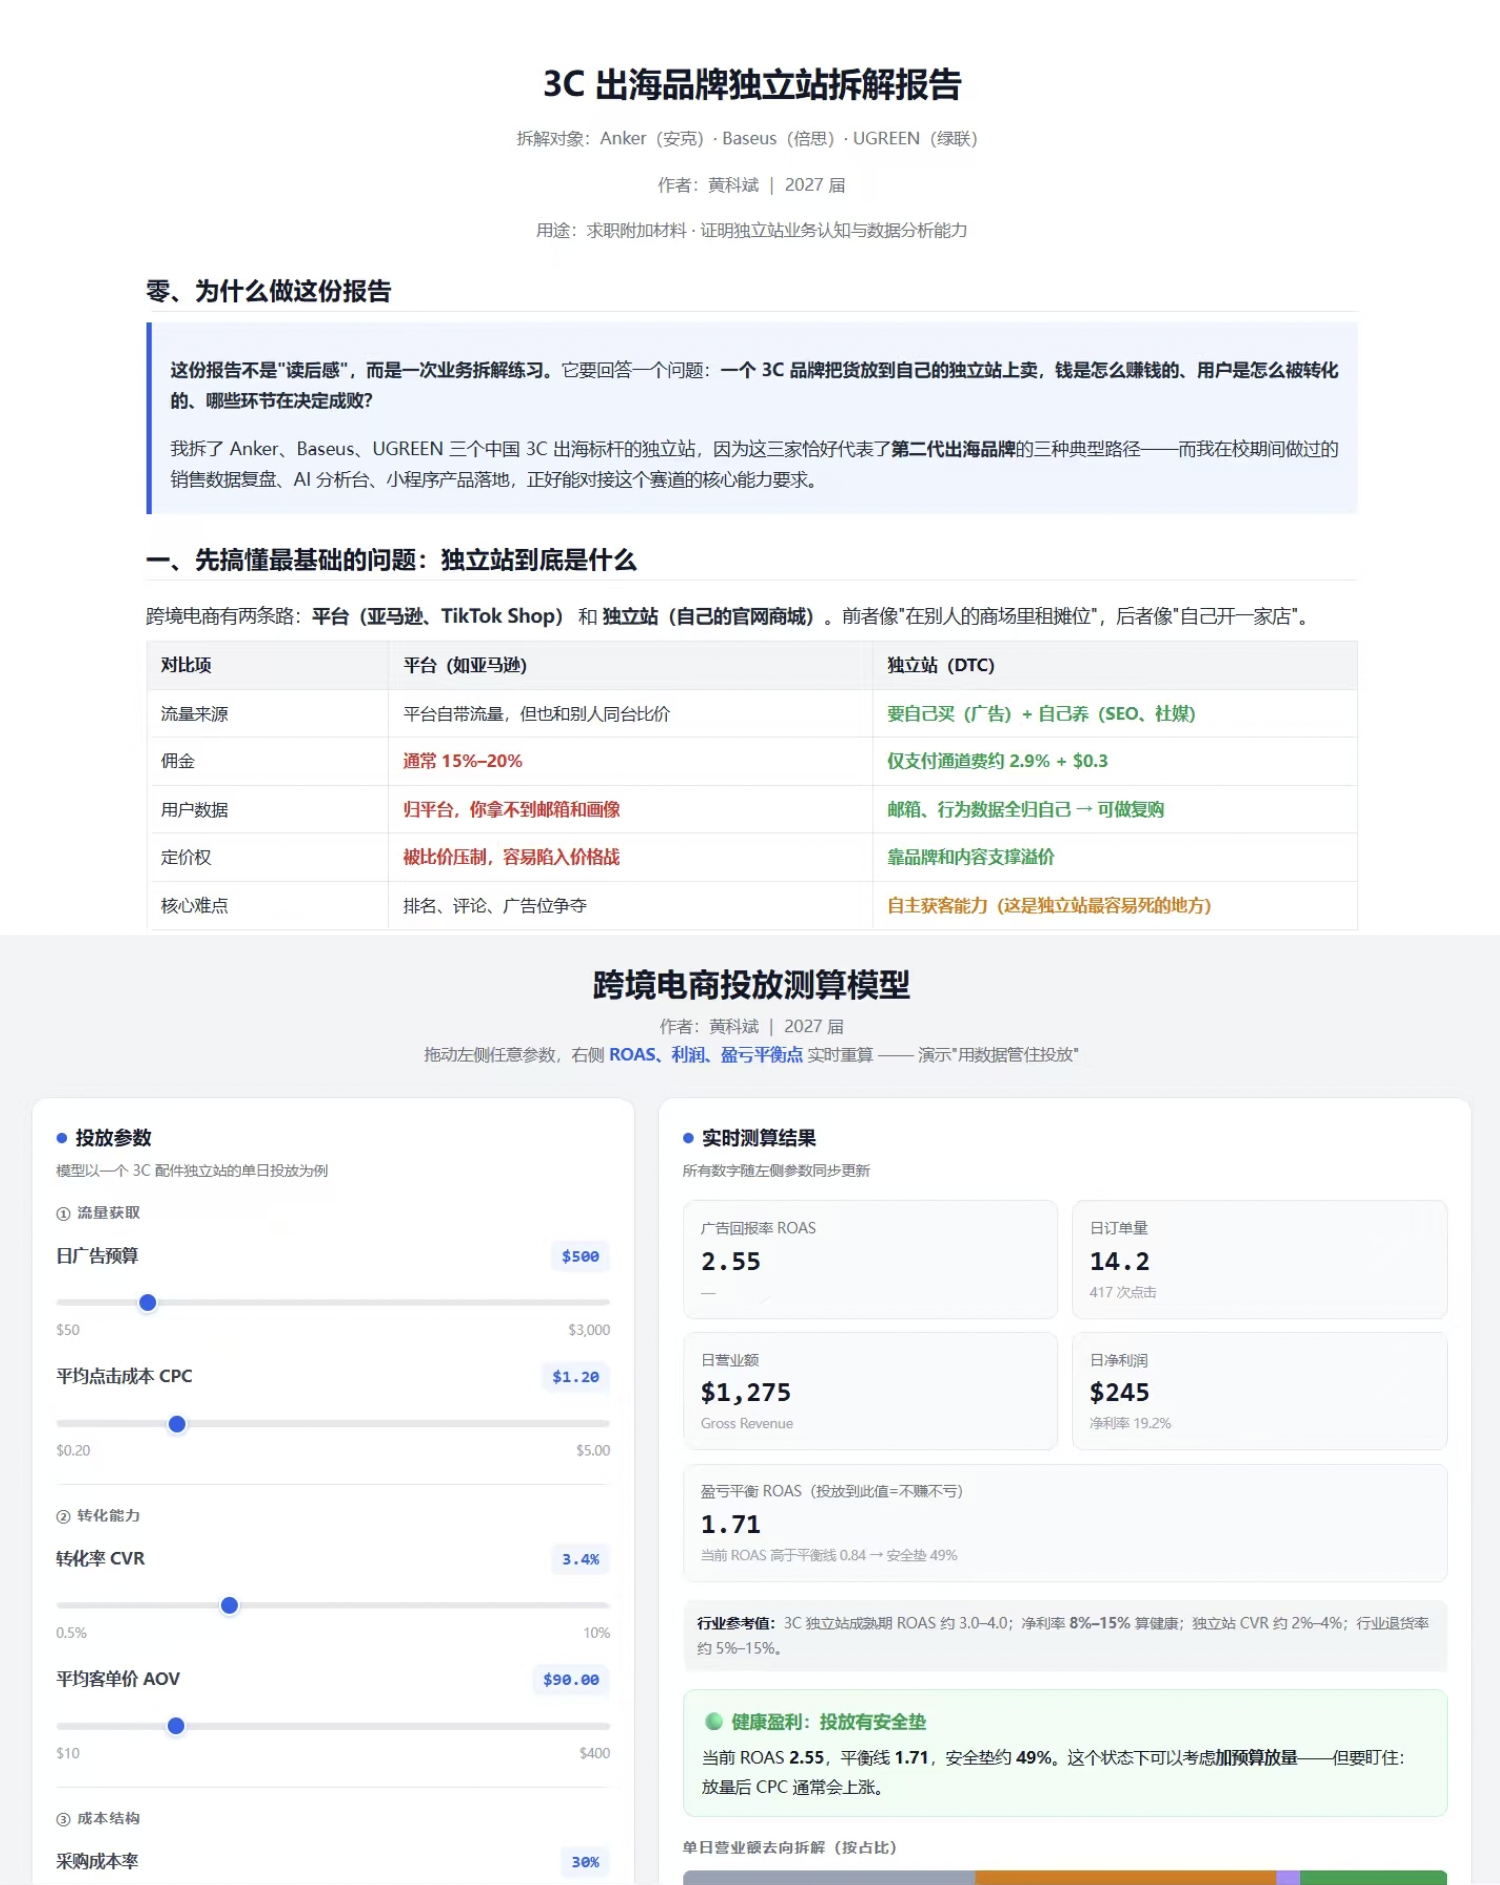
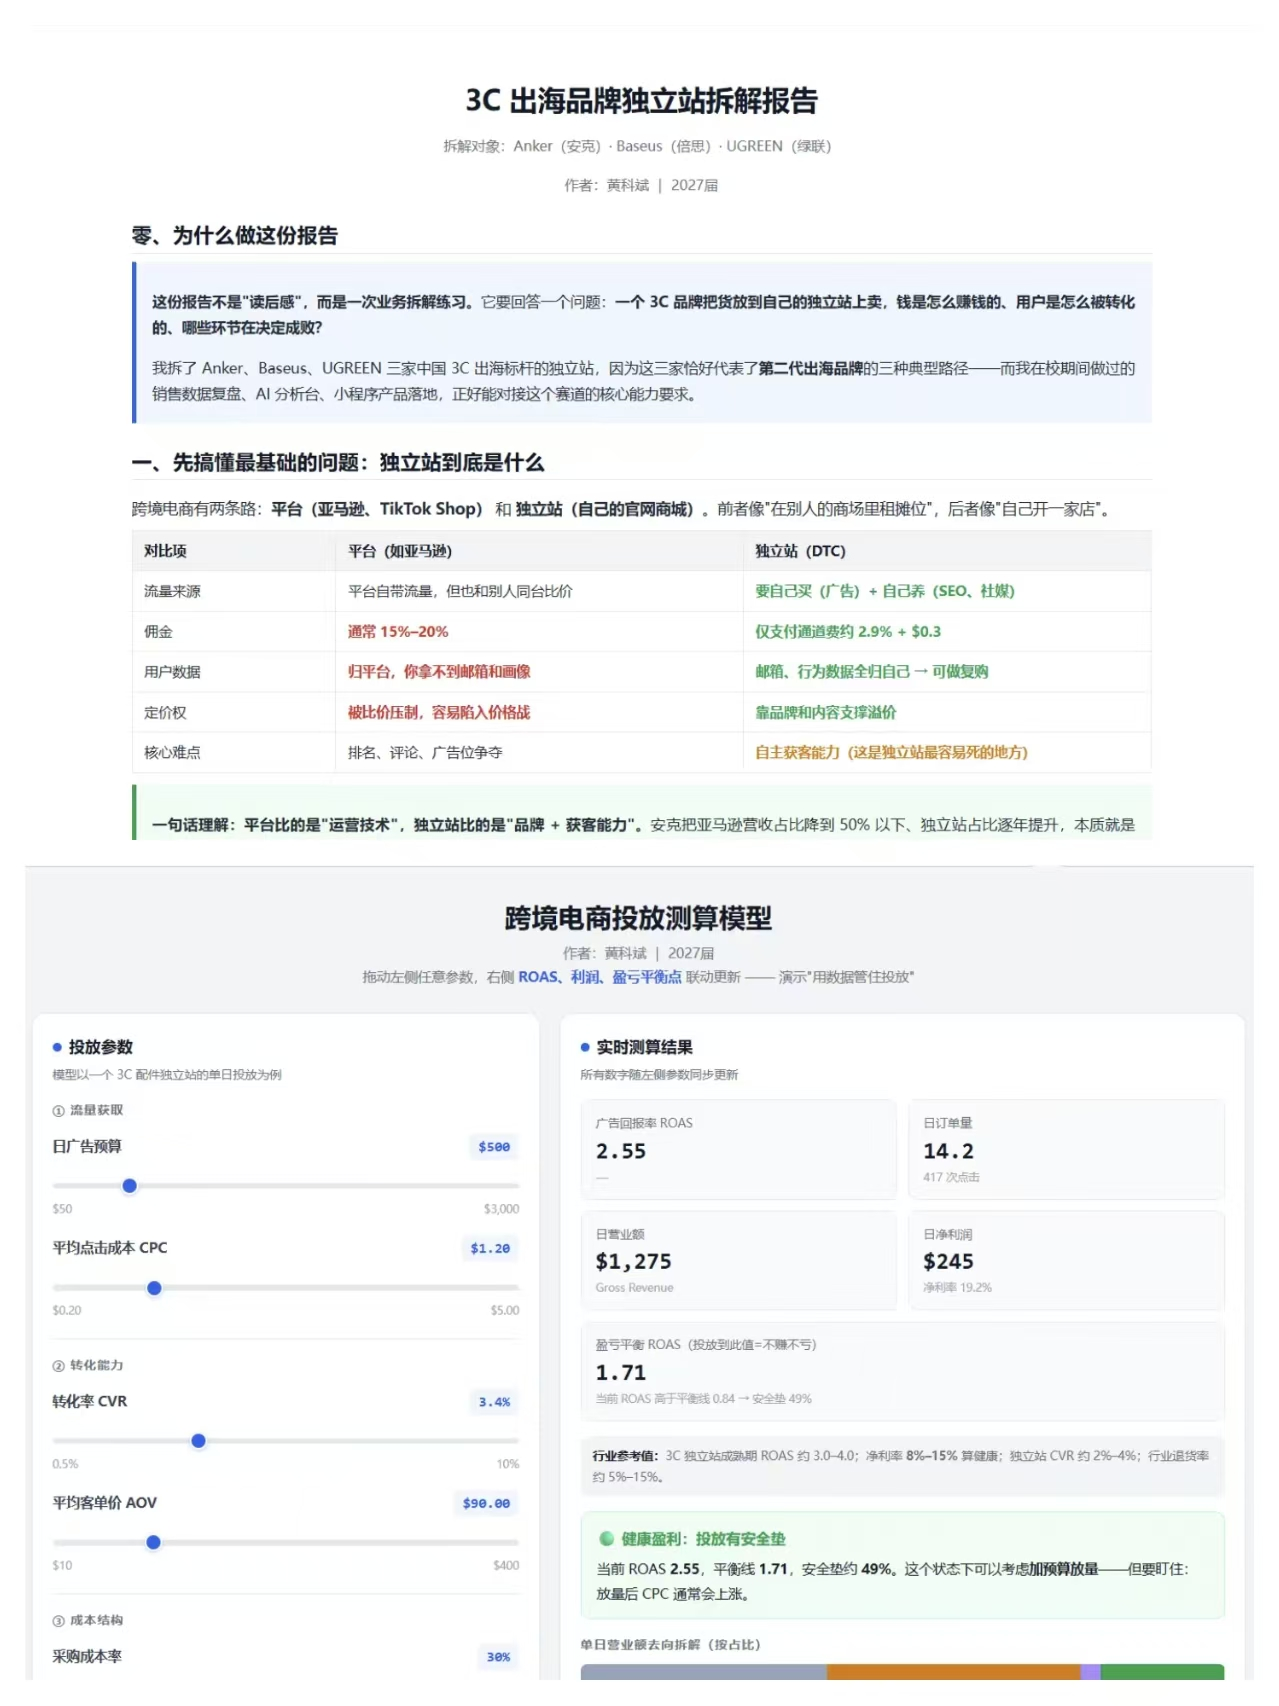
growth 3C 条目: 更新配图(报告+模型新版截图) + 标题改为跨境电商业务方向实践

diff --git a/index.html b/index.html
@@ -550,7 +550,7 @@
       <div class="t-item" data-reveal><div class="t-body"><div class="yr">2026 夏</div><h4>上手 AI 工具链：两款小程序从 0 到 1 完整落地</h4><p>用 AI 辅助开发云丝侗韵小程序与科斌饮品点单助手，从需求拆解、页面设计到功能实现全程自己主导。</p></div><a class="tev" href="assets/growth-miniapps.jpg" data-zoom><img src="assets/growth-miniapps.jpg" alt="云丝侗韵与科斌点单两款小程序的运行界面" loading="lazy"></a></div>
       <div class="t-item" data-reveal><div class="t-body"><div class="yr">2026.09</div><h4>开源平台学习并实操版本管理及 AI 项目探索</h4><p>一周上手 GitHub，独立完成账号注册、SSH 密钥配置、仓库推送与README 编写，借助开源社区研读 AI 项目，拓展前沿技术认知。</p></div><a class="tev" href="assets/growth-github.jpg" data-zoom><img src="assets/growth-github.jpg" alt="GitHub 开源社区浏览与学习现场" loading="lazy"></a></div>
       <div class="t-item" data-reveal><div class="t-body"><div class="yr">2026.09</div><h4>为销量台账接入 AI：Excel 从记录工具变成决策助手</h4><p>给门店销量台账接入 AI 大模型：可对话提问、框选即分析、按历史销量给出下月备货预估，把原本逐行翻表的复盘压缩到秒级。这正是我处理电商数据的方式：让数据直接服务决策。</p></div><a class="tev" href="assets/growth-aitable.png" data-zoom><img src="assets/growth-aitable.png" alt="茶之都门店销售数据AI智能分析台" loading="lazy"></a></div>
-      <div class="t-item" data-reveal><div class="t-body"><div class="yr">2026.09</div><h4>切入跨境电商主线：3C 出海品牌拆解 + ROAS 投放模型</h4><p>独立拆解 Anker / Baseus / UGREEN 三个 3C 出海标杆独立站，输出「选品—定价—投放—转化」四步方案；自建 7 参数单位经济模型，可实时测算 ROAS、日净利与盈亏平衡点。</p></div><a class="tev" href="assets/growth-3c-roas.jpg" data-zoom><img src="assets/growth-3c-roas.jpg" alt="3C 出海品牌独立站拆解报告与跨境电商投放测算模型" loading="lazy"></a></div>
+      <div class="t-item" data-reveal><div class="t-body"><div class="yr">2026.09</div><h4>跨境电商业务方向实践：3C 出海品牌拆解 + ROAS 投放模型</h4><p>独立拆解 Anker / Baseus / UGREEN 三个 3C 出海标杆独立站，输出「选品—定价—投放—转化」四步方案；自建 7 参数单位经济模型，可实时测算 ROAS、日净利与盈亏平衡点。</p></div><a class="tev" href="assets/growth-3c-roas.jpg" data-zoom><img src="assets/growth-3c-roas.jpg" alt="3C 出海品牌独立站拆解报告与跨境电商投放测算模型" loading="lazy"></a></div>
       <div class="t-item" data-reveal><div class="t-body"><div class="yr">2026.10</div><h4>完成 独立站（SHOPLINE）：HKB Tech 3C 配件站上线</h4><p>5 个 SKU 英文 Listing（定价/成本/SEO）+ 配送区域与货到付款配置，真实走通下单—收款—发货订单闭环（订单 #1001 / $52.98 / 15 张全流程截图取证）；以自建 ROAS 模型反推投放门槛：单件客单 $34.99（5 SKU 均价） 需盈亏平衡 ROAS 2.09、转化率 7.18%，冷启动难以成立；捆绑客单 $52.98 将转化率门槛降至 4.44%，据此确立「捆绑提客单」策略。</p></div><a class="tev" href="assets/growth-store.png" data-zoom><img src="assets/growth-store.png" alt="HKB Tech 独立站前台商品列表页" loading="lazy"></a></div>
       <div class="t-item" data-reveal><div class="t-body"><div class="yr">2026.10</div><h4>搭建个人知识管理系统：Obsidian 多中心知识图谱（60 篇）</h4><p>用双链笔记把外贸全链路、平台运营、投放数据、岗位名词、学习方法拆成 7 个主题中枢 + 2 个岗位名词速查中心 + 4 个读书中心，自定「必答三问 + 一周输出物」的掌握度判据，全部笔记零断链、零孤岛，把碎片知识整理成能随时调用的决策资产。</p></div><a class="tev" href="assets/growth-kb.jpg" data-zoom><img src="assets/growth-kb.jpg" alt="Obsidian 多中心知识图谱：60 篇笔记多中枢关系网络" loading="lazy"></a></div>
     </div>
